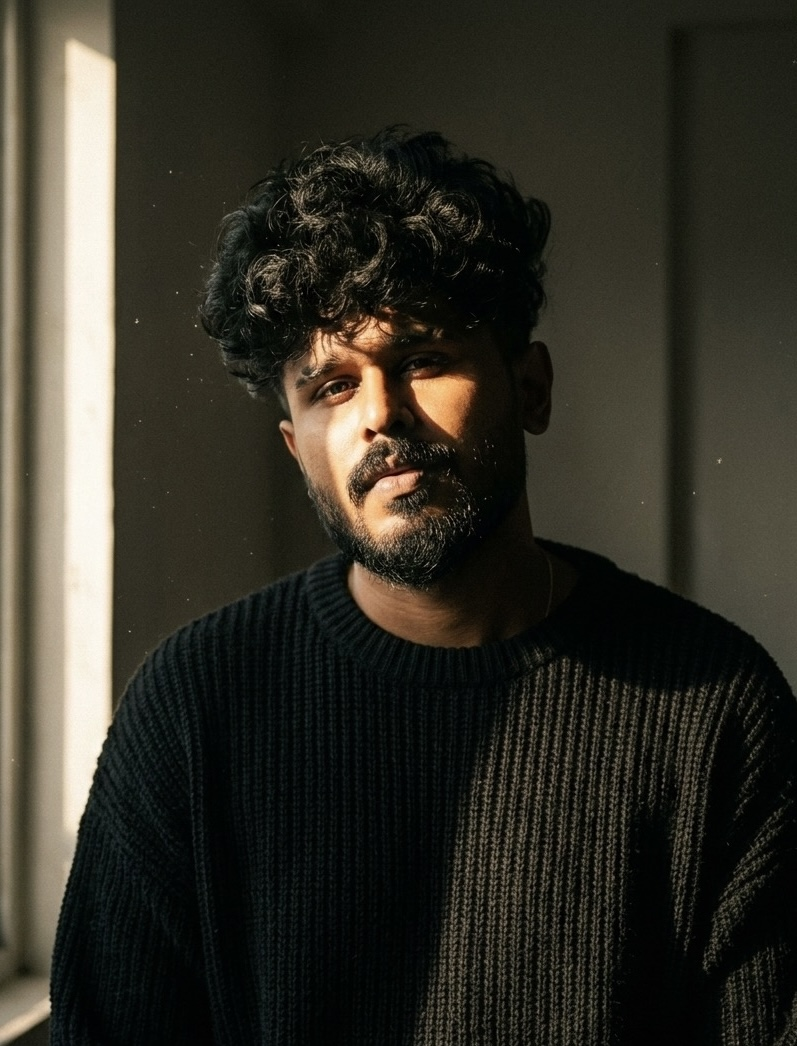
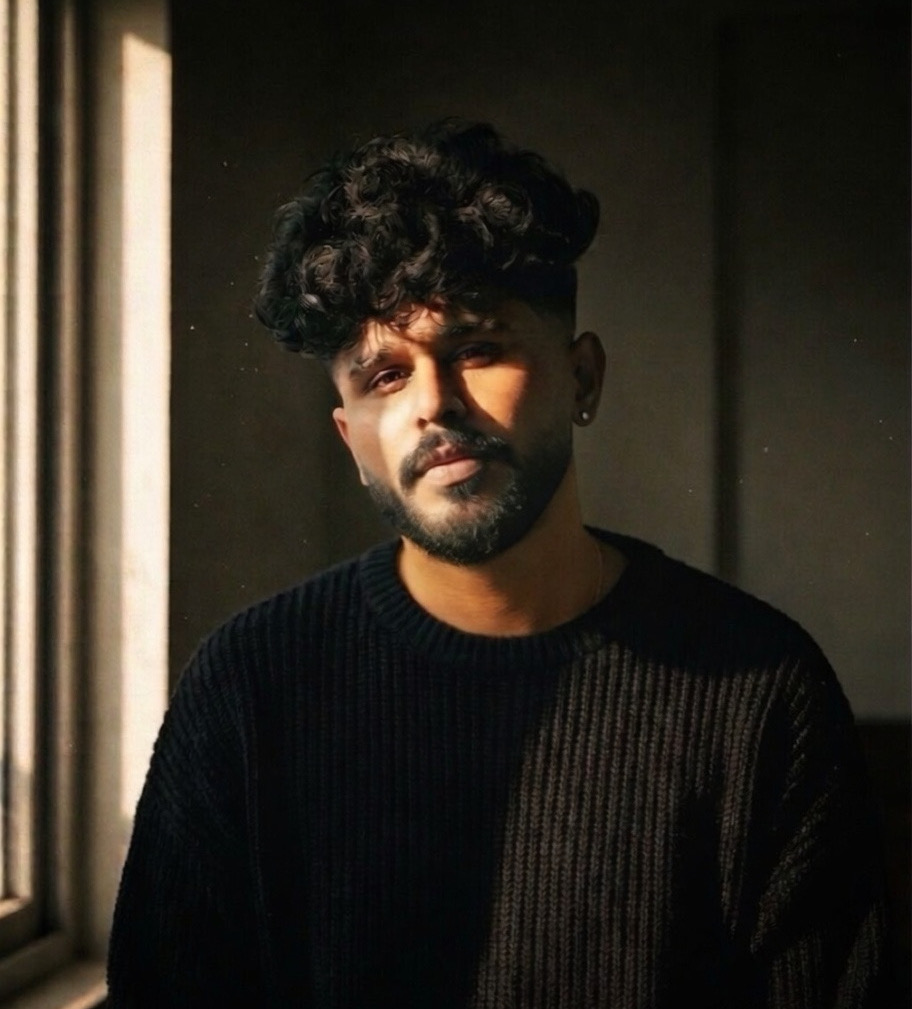
minor corrections and image change

diff --git a/app/controllers/pages_controller.rb b/app/controllers/pages_controller.rb
@@ -57,7 +57,7 @@ class PagesController < ApplicationController
         stack:       "Rails, PostgreSQL, Hotwire",
         link:        "https://eduveda-0o8x.onrender.com",
         credentials: [
-          { role: "Admin",   email: "admin3@abc.com",    password: "admin123"    },
+          { role: "Admin",   email: "admin@abc.com",    password: "admin123"    },
           { role: "Student", email: "student1@123.com",  password: "student1123" }
         ]
       },
